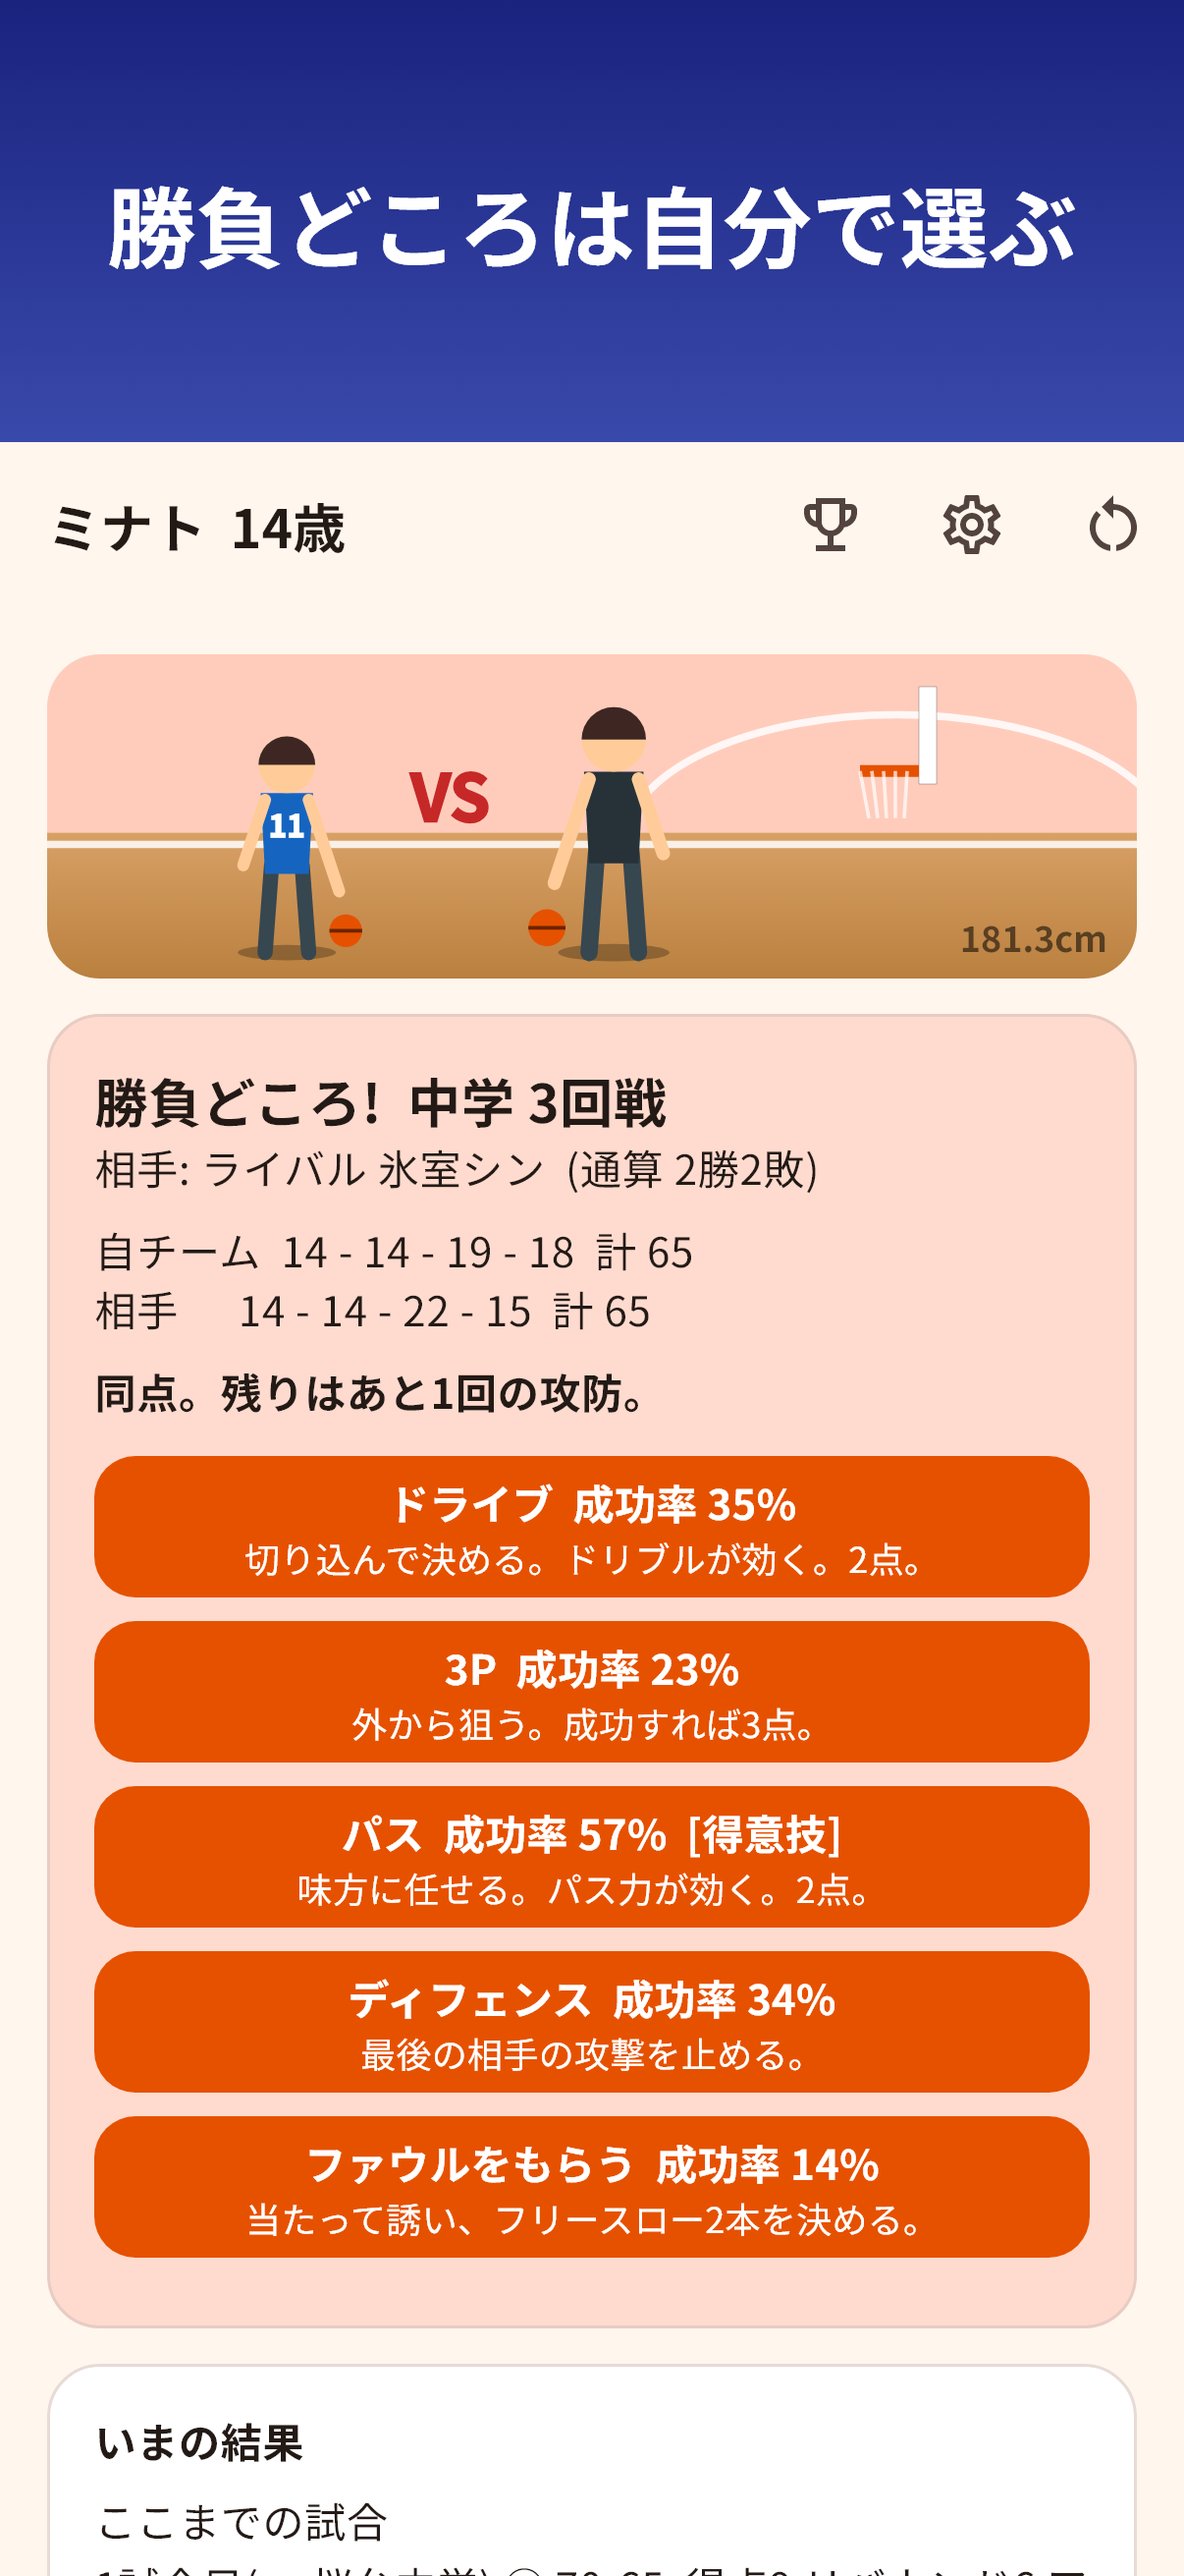
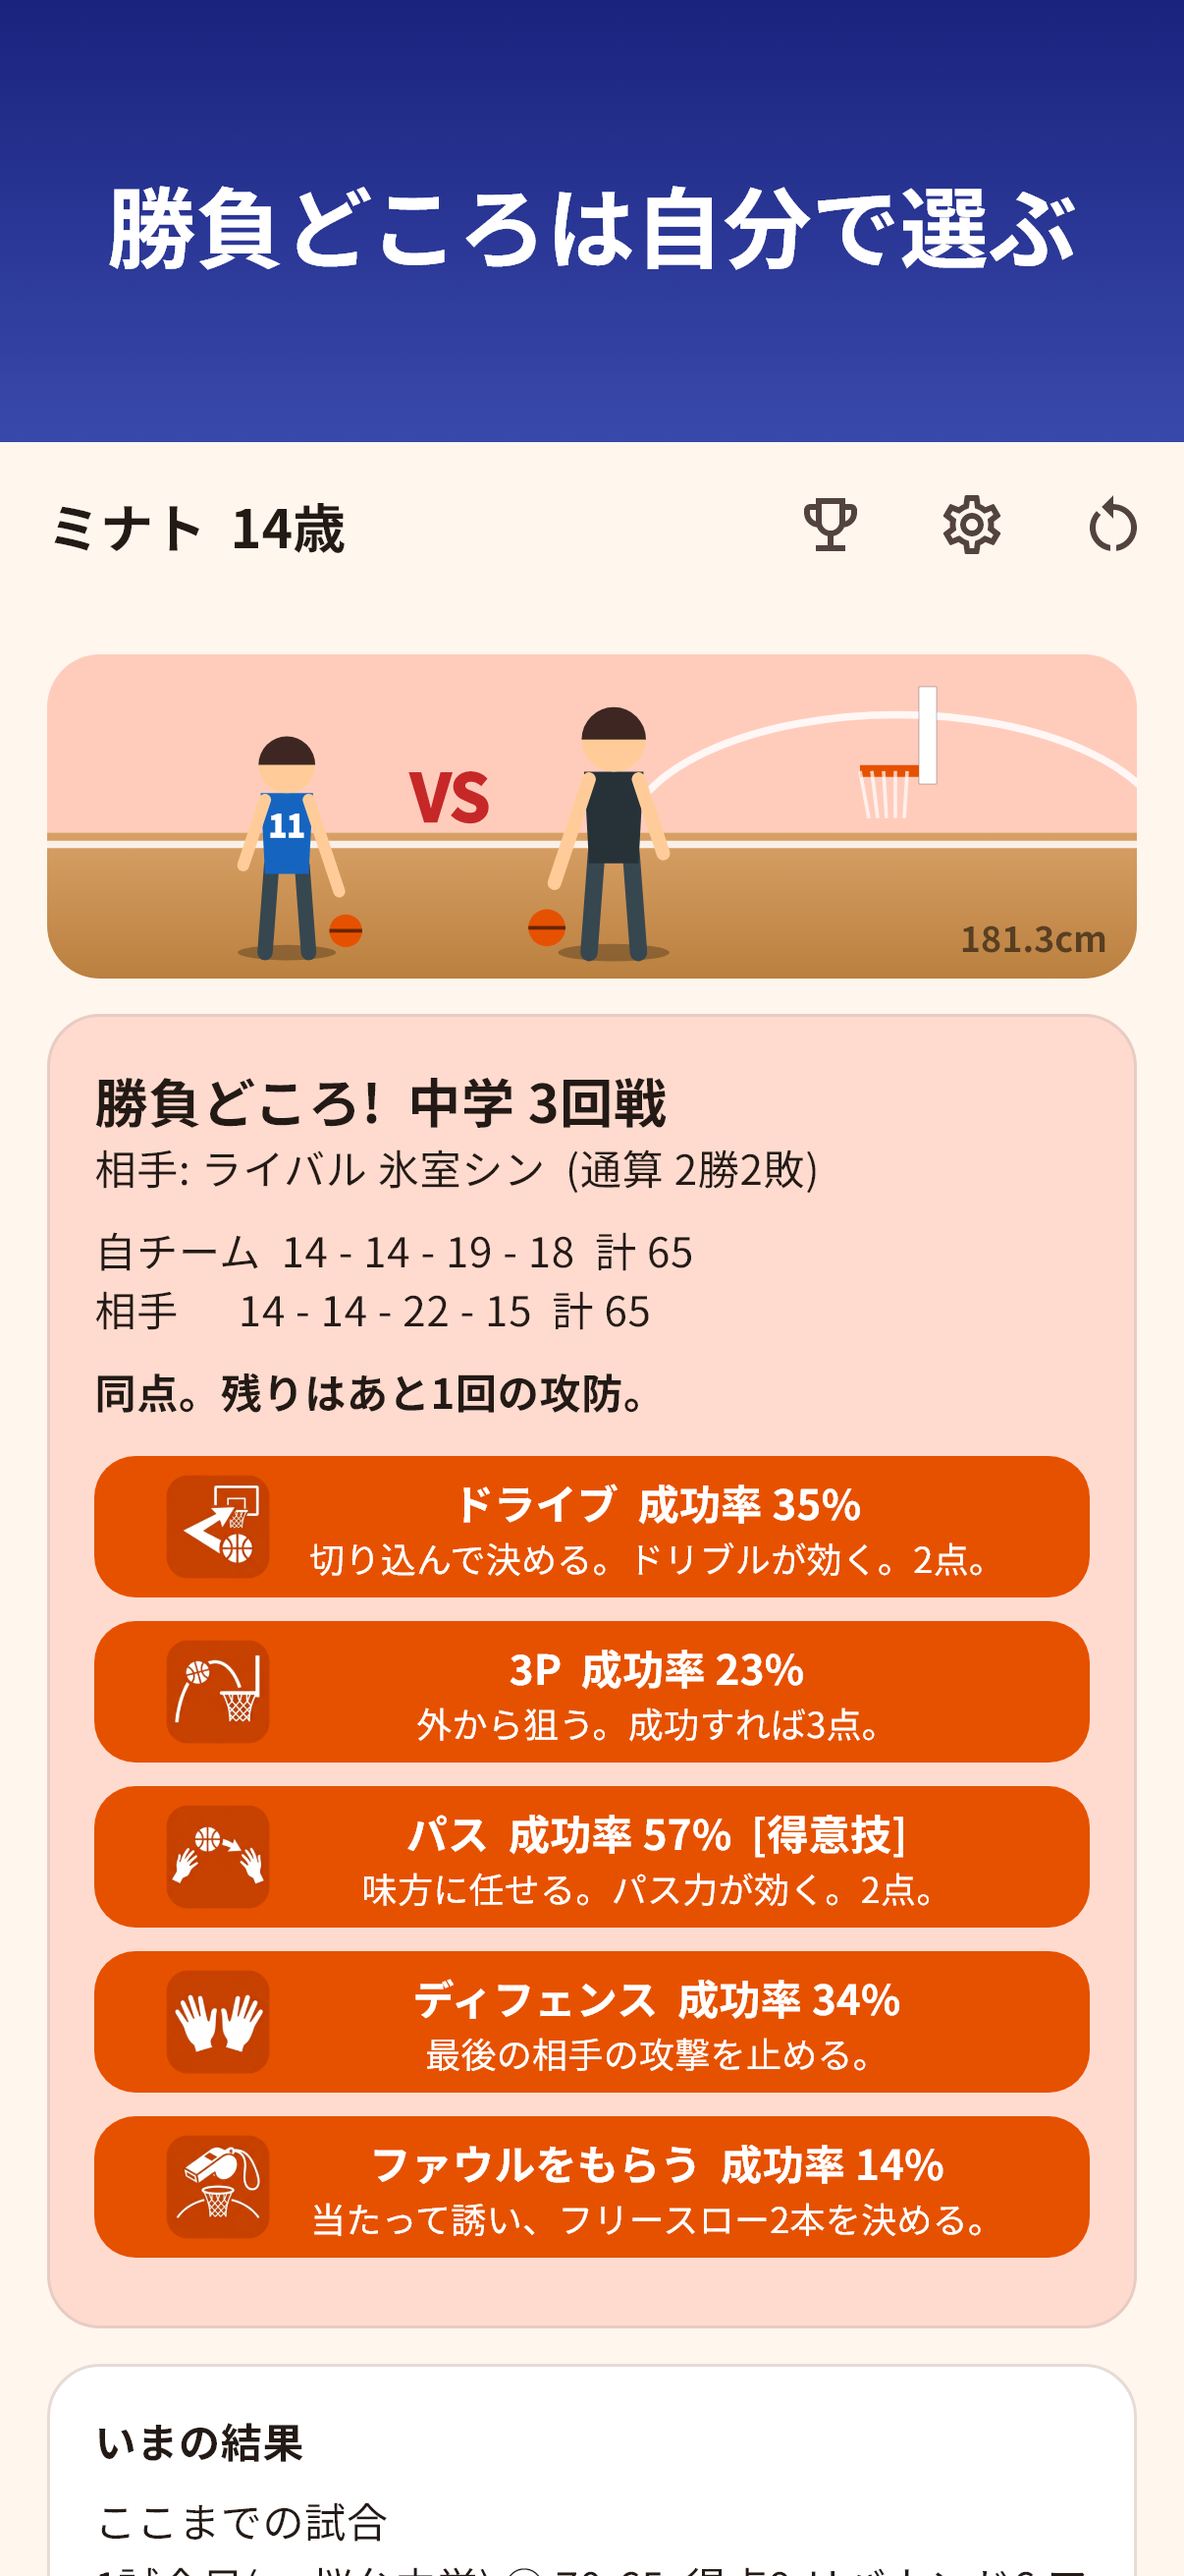
basketball-career: ボタンに Gemini のアイコンを付ける(15個)
- 過ごし方6・勝負どころ5・ハーフタイム4。192px PNG・角は透明、ボタンの左に表示
- 掲載画像の生成器は画像の読み込みを待ってから撮る(待たないと空白で撮れる)。掲載画像を撮り直し
- 置き忘れを止めるテスト

影響範囲: projects/basketball-career のみ。TestFlight にはまだ上げない

Changed region(s): [[0.1227, 0.5561, 0.8284, 0.8959], [0.3068, 0.7723, 0.767, 0.8032]]

diff --git a/projects/basketball-career/lib/ui/game_screen.dart b/projects/basketball-career/lib/ui/game_screen.dart
@@ -387,10 +387,32 @@ class _ActionButton extends StatelessWidget {
       ],
     );
     final cb = enabled ? onPressed : null;
+    final withIcon = _WithIcon('assets/art/icons/act_${action.name}.png', child);
     return recommended
-        ? FilledButton(onPressed: cb, child: child)
-        : FilledButton.tonal(onPressed: cb, child: child);
+        ? FilledButton(onPressed: cb, child: withIcon)
+        : FilledButton.tonal(onPressed: cb, child: withIcon);
   }
+}
+
+/// ボタンの左に置く絵(Gemini で生成した 192px の PNG)。無ければ何も出さず、文字だけにする。
+class _WithIcon extends StatelessWidget {
+  const _WithIcon(this.asset, this.child);
+  final String asset;
+  final Widget child;
+
+  @override
+  Widget build(BuildContext context) => Row(
+        children: [
+          Image.asset(
+            asset,
+            width: 36,
+            height: 36,
+            errorBuilder: (_, __, ___) => const SizedBox(width: 36, height: 36),
+          ),
+          const SizedBox(width: 8),
+          Expanded(child: child),
+        ],
+      );
 }
 
 /// 今年の目標。まだ選んでいなければ2つの候補を出す。
@@ -835,7 +857,9 @@ class _HalftimeView extends StatelessWidget {
                     padding: const EdgeInsets.only(bottom: 8),
                     child: FilledButton(
                       onPressed: () => controller.playHalftime(k),
-                      child: Column(
+                      child: _WithIcon(
+                        'assets/art/icons/half_${k.name}.png',
+                        Column(
                         mainAxisSize: MainAxisSize.min,
                         children: [
                           Text(k == rec ? '${k.label}  (おすすめ)' : k.label,
@@ -851,6 +875,7 @@ class _HalftimeView extends StatelessWidget {
                             const Text('相手との相性: 悪い',
                                 style: TextStyle(fontSize: 12)),
                         ],
+                      ),
                       ),
                     ),
                   ),
@@ -931,7 +956,9 @@ class _ClutchView extends StatelessWidget {
                     padding: const EdgeInsets.only(bottom: 8),
                     child: FilledButton(
                       onPressed: () => controller.playClutch(k),
-                      child: Column(
+                      child: _WithIcon(
+                        'assets/art/icons/clutch_${k.name}.png',
+                        Column(
                         mainAxisSize: MainAxisSize.min,
                         children: [
                           Text(
@@ -941,6 +968,7 @@ class _ClutchView extends StatelessWidget {
                           Text(k.description,
                               style: const TextStyle(fontSize: 12)),
                         ],
+                      ),
                       ),
                     ),
                   ),

diff --git a/projects/basketball-career/test/art_assets_test.dart b/projects/basketball-career/test/art_assets_test.dart
@@ -2,7 +2,9 @@
 // pubspec.yaml の assets に無いと、実機では読み込めず代替の絵に戻るだけで気づきにくい。
 import 'dart:io';
 
-import 'package:flutter_test/flutter_test.dart';
+import 'package:basketball_career/game/life.dart';
+import 'package:basketball_career/game/match.dart';
+import 'package:flutter_test/flutter_test.dart' hide Action;
 
 void main() {
   const arts = [
@@ -38,6 +40,21 @@ void main() {
       }
     }
     expect(used, arts.toSet());
+  });
+
+  test('ボタンのアイコンが、過ごし方・勝負どころ・ハーフタイムの全種類にある', () {
+    final names = <String>[
+      for (final a in Action.values) 'act_${a.name}',
+      for (final c in Clutch.values) 'clutch_${c.name}',
+      for (final h in Halftime.values) 'half_${h.name}',
+    ];
+    expect(names.length, 15);
+    for (final n in names) {
+      final f = File('assets/art/icons/$n.png');
+      expect(f.existsSync(), isTrue, reason: '$n.png が無い');
+      expect(f.lengthSync(), lessThan(60 * 1024), reason: '$n.png が重い');
+    }
+    expect(File('pubspec.yaml').readAsStringSync(), contains('assets/art/icons/'));
   });
 
   test('アイコンの元の絵は 1024x1024', () {

diff --git a/projects/basketball-career/tool/screenshots/capture_test.dart b/projects/basketball-career/tool/screenshots/capture_test.dart
@@ -141,6 +141,10 @@ Future<void> _shoot(
   );
   await t.pump(const Duration(milliseconds: 100));
   await t.pump(const Duration(milliseconds: 100));
+  // 画面の絵・ボタンのアイコン(assets の画像)の読み込みを待つ。待たないと空白で撮れる。
+  await t.runAsync(() => Future.delayed(const Duration(milliseconds: 600)));
+  await t.pump();
+  await t.pump(const Duration(milliseconds: 200));
   // 読み込み中のまま撮っていないことを検査する。
   expect(
     find.byType(CircularProgressIndicator),

diff --git a/projects/basketball-career/CLAUDE.md b/projects/basketball-career/CLAUDE.md
@@ -165,6 +165,10 @@ baseball-manager の骨格（年齢で局面が変わる一代記・季節ごと
   エンディングは CourtHeader（背番号入りの選手の絵）を絵に置き換えた（背番号は文字で出る）。
   `test/art_assets_test.dart` が、5枚の存在・pubspec への宣言・合計2MB未満・コードで使う名前との一致を検査。
   進路の絵のアリーナに鳥の紋章がある（架空）。実在のチームに似ていないか、差し替えるときは見る。
+- **ボタンのアイコン15個**（`assets/art/icons/`、192px の PNG・角は透明）: 過ごし方6（`act_<Action名>`）・勝負どころ5（`clutch_<Clutch名>`）・ハーフタイム4（`half_<Halftime名>`）。
+  Gemini に「3列×2行／3列×3行の格子で、濃いオレンジの角丸バッジに白い太線」と頼み、`slice_icons` 相当の処理（余白で切り分け→角丸マスクで角を透明に）で切った。
+  1回目は7個（握手が重複）出た→「ちょうど9個・重複不可」と書くと揃った。ボタンの左に `_WithIcon`（36px）。画像が無ければ空白の枠だけで、文字は出る。
+  **掲載画像の生成器は、撮る前に画像の読み込みを待つ**（`runAsync` で600ms）。待たないとアイコンや絵が空白で撮れる。
 - 文字・ロゴ・実在のチームは入れていない。AI 生成の絵を使うので、App Store の「サードパーティのコンテンツ」の答えは「権利を保有」のまま（Gemini の生成物は利用者が使える）。
 - 掲載画像（`marketing/screenshots/`）は別。アプリ画面を撮るので、絵が変わった部分は撮り直す（はじめの画面は撮らない決まり）。
 
